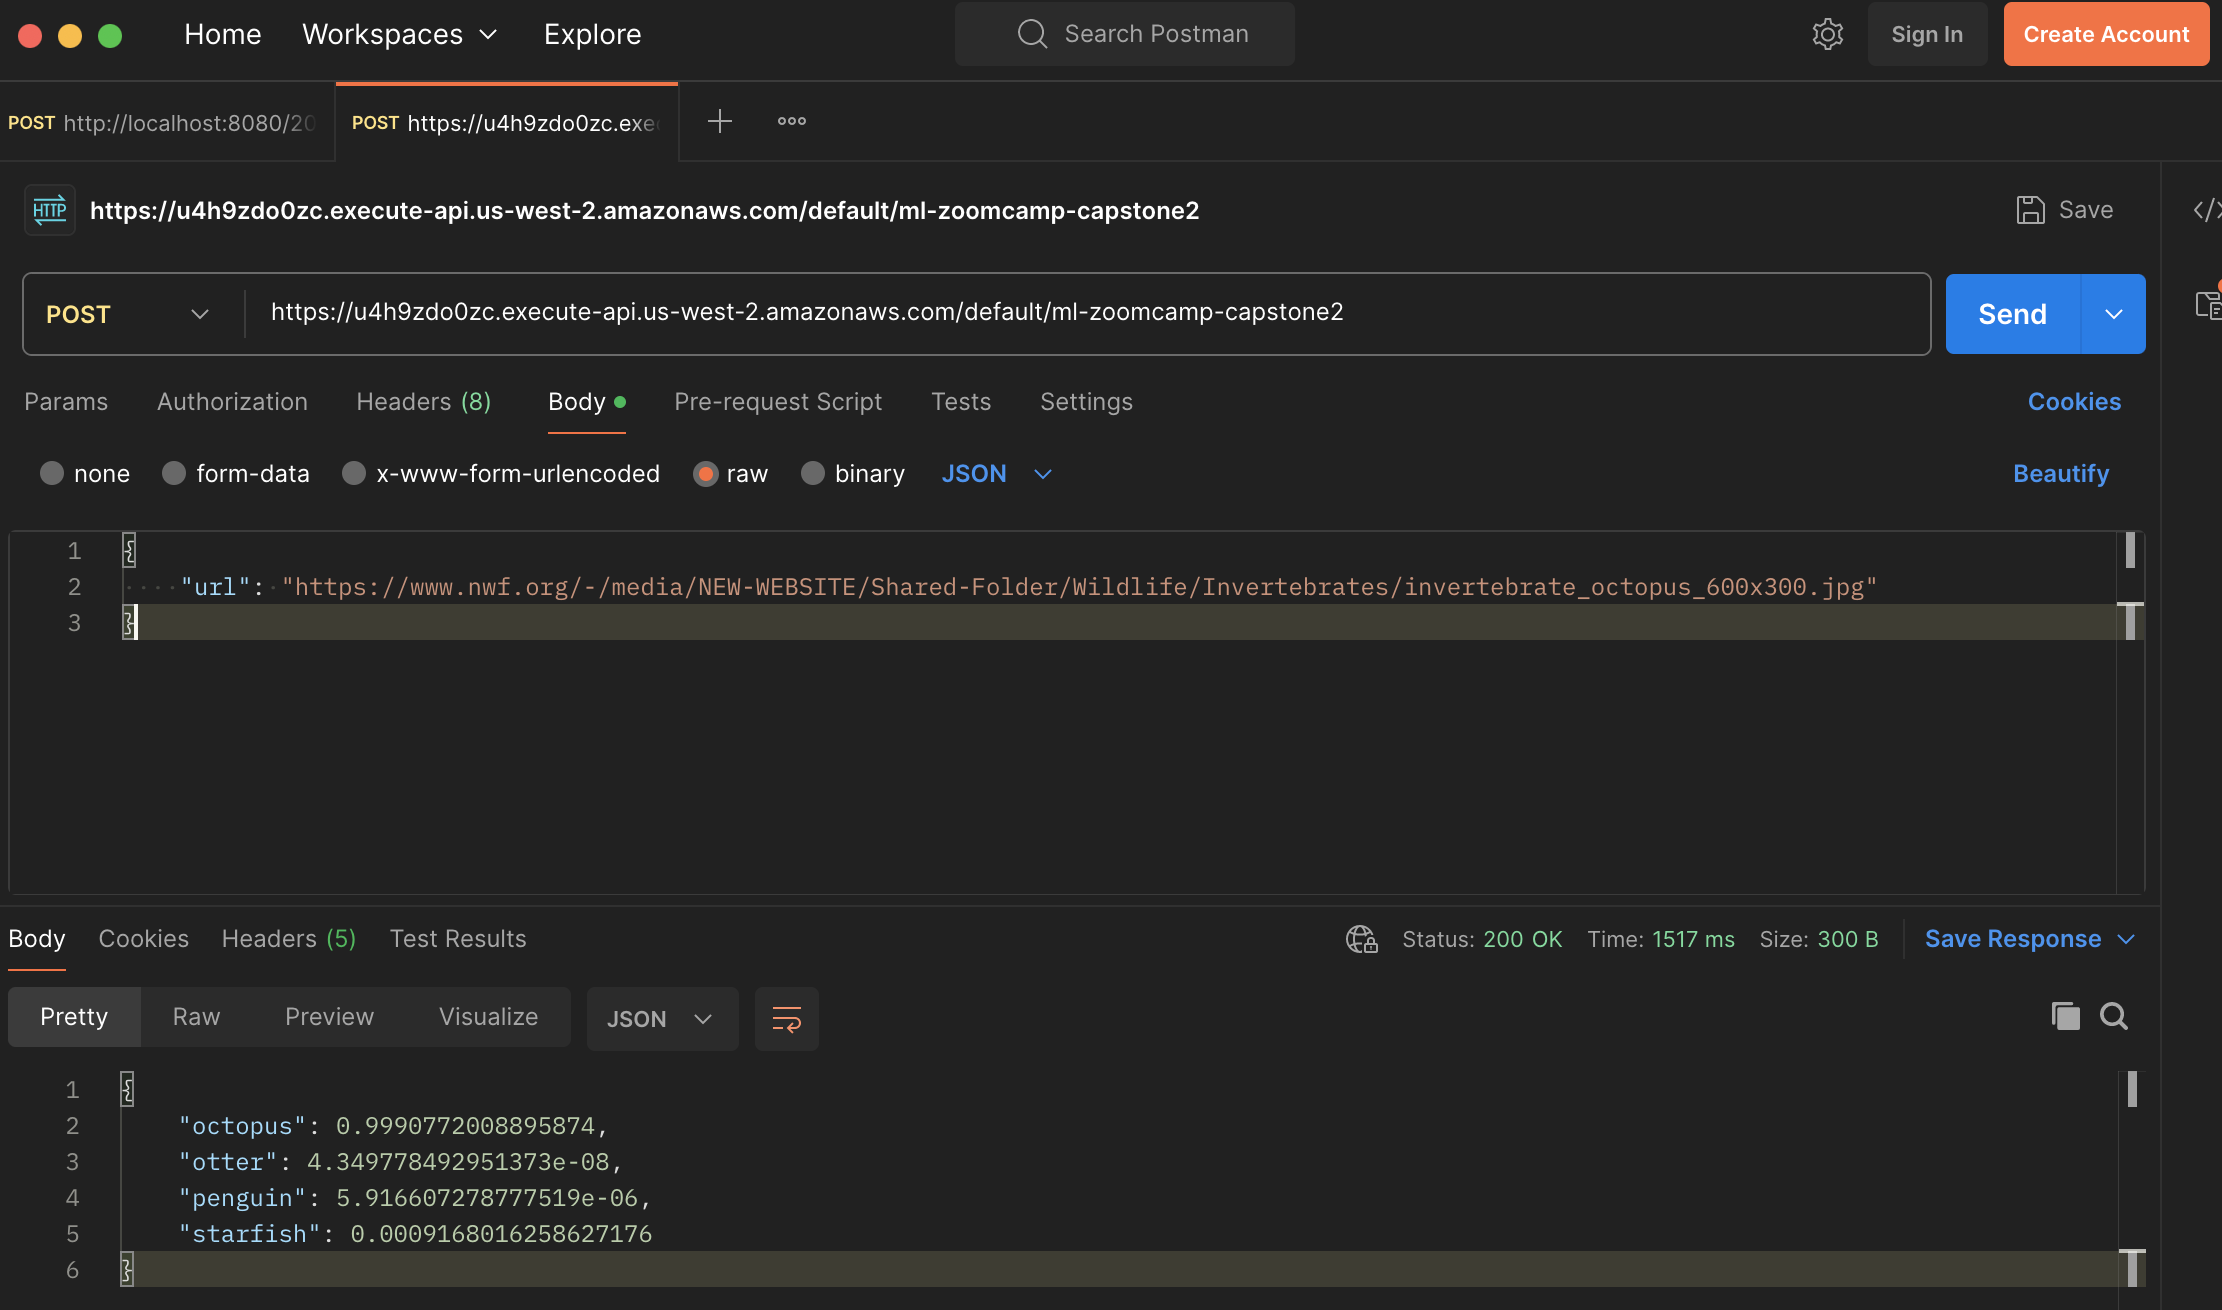
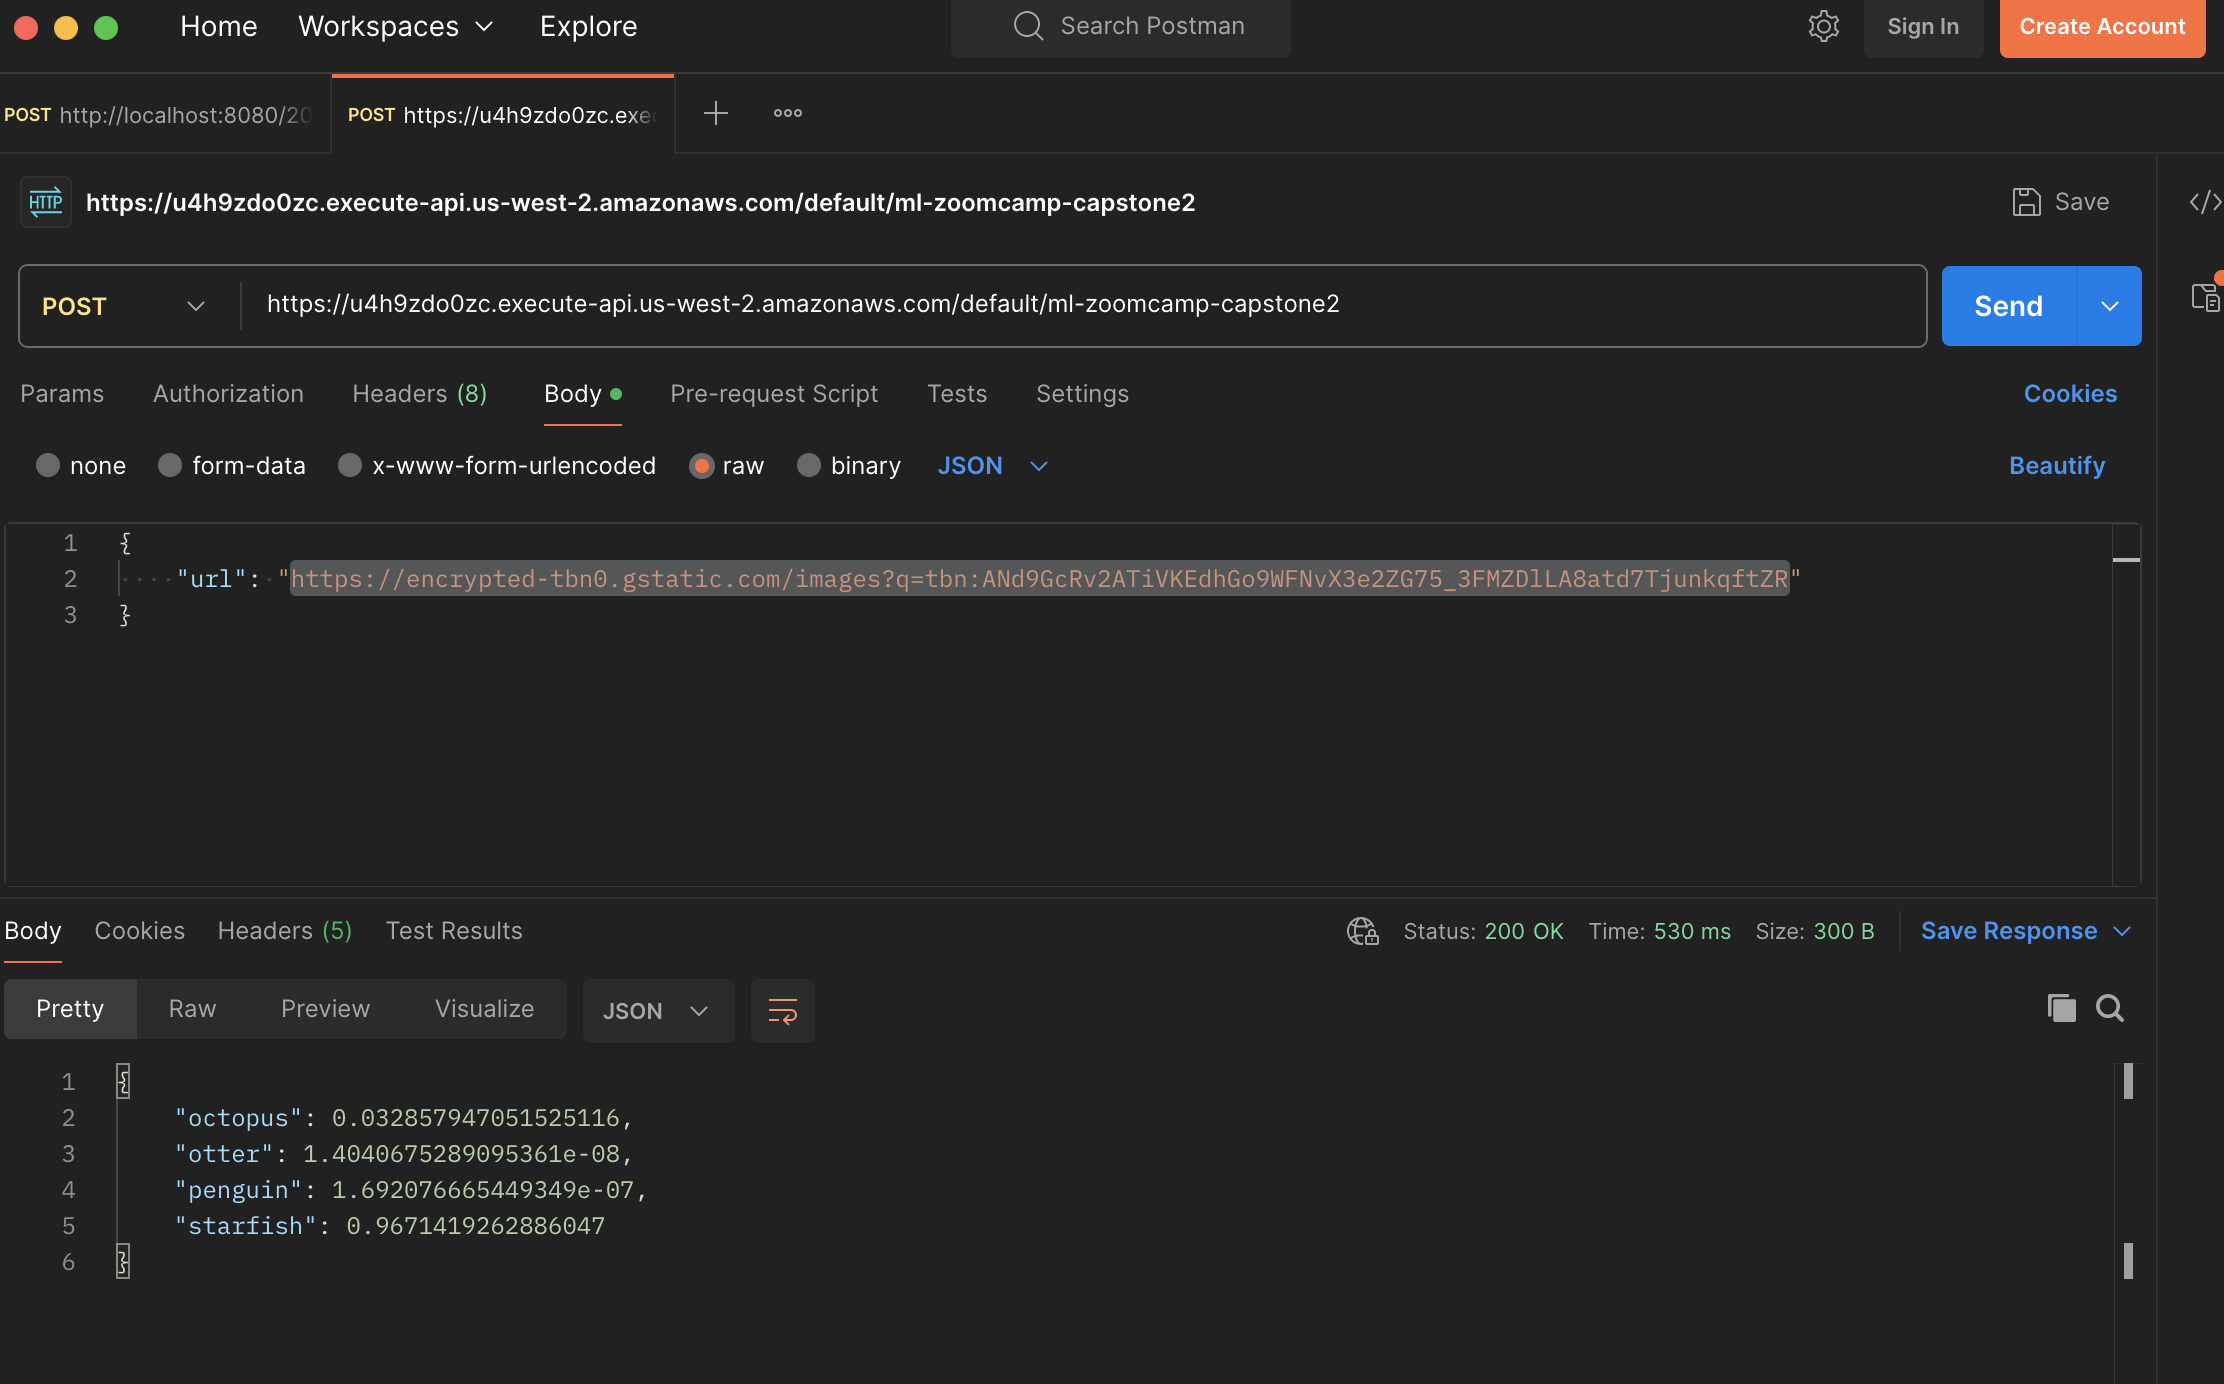
add pictures of cool sea creatures

diff --git a/README.md b/README.md
@@ -169,6 +169,10 @@ docker run -dp 8080:8080 sea-class:latest
 
 ### Send requests to local lambda function
 
+Let's test with this image
+
+![octopus](https://www.nwf.org/-/media/NEW-WEBSITE/Shared-Folder/Wildlife/Invertebrates/invertebrate_octopus_600x300.jpg)
+
 #### Test script
 Edit the `data.url` in `test.py` if you want to use a different image url.
 
@@ -235,16 +239,24 @@ Configure the function (memory, timeout)
 
 **Please be patient**, when you invoke the function, it takes a few seconds to start if it's not warmed up.
 
+Let's test with this image
+
+![octopus](https://encrypted-tbn0.gstatic.com/images?q=tbn:ANd9GcRv2ATiVKEdhGo9WFNvX3e2ZG75_3FMZDlLA8atd7TjunkqftZR)
+
 #### `curl`
 ```
 curl -X POST -H "Content-Type: application/json" \
     https://u4h9zdo0zc.execute-api.us-west-2.amazonaws.com/default/ml-zoomcamp-capstone2 \
-    -d '{"url": "https://www.nwf.org/-/media/NEW-WEBSITE/Shared-Folder/Wildlife/Invertebrates/invertebrate_octopus_600x300.jpg"}'
+    -d '{"url": "https://encrypted-tbn0.gstatic.com/images?q=tbn:ANd9GcRv2ATiVKEdhGo9WFNvX3e2ZG75_3FMZDlLA8atd7TjunkqftZR"}'
 
 # output
-{"octopus": 0.9990772008895874, "otter": 4.349778492951373e-08, "penguin": 5.916607278777519e-06, "starfish": 0.0009168016258627176}
+{"octopus": 0.032857947051525116, "otter": 1.4040675289095361e-08, "penguin": 1.692076665449349e-07, "starfish": 0.9671419262886047}
 ```
 
 #### Postman
 
 ![postman invoke lambda](img/postman_aws_lambda_invoke.png)
+
+## In case of emergency
+
+If you're having issues and need to contact me, please DM me in the DataTalksClub Slack or [file an issue](https://github.com/carise/ml-zoomcamp-capstone2/issues).
